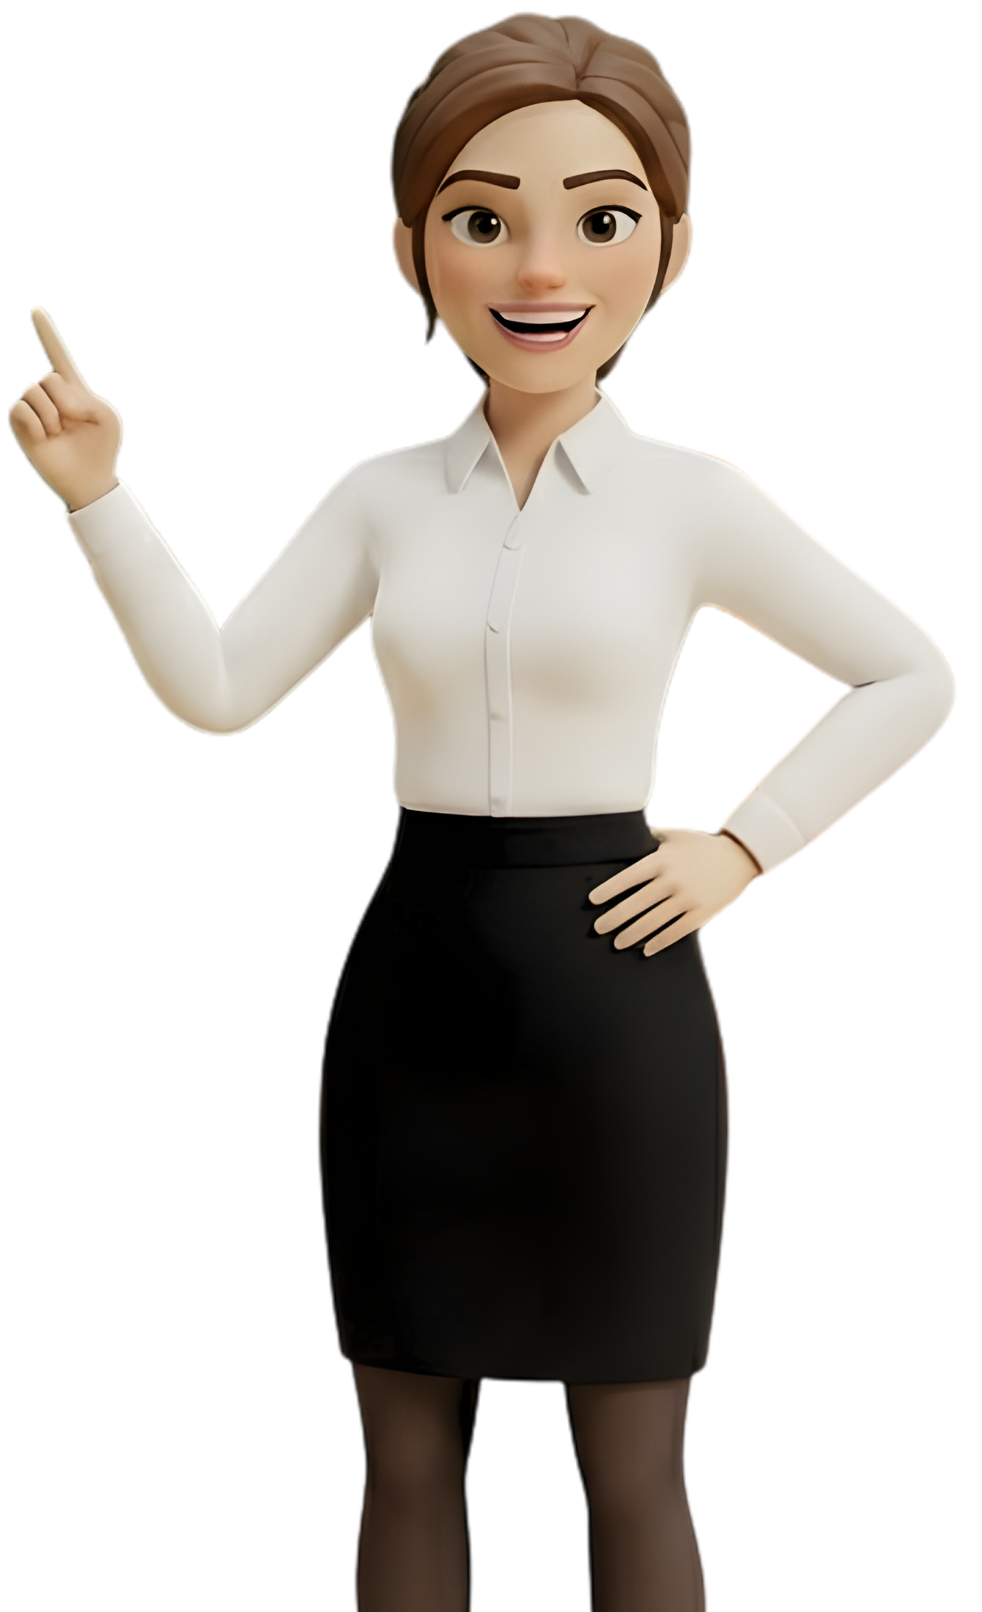
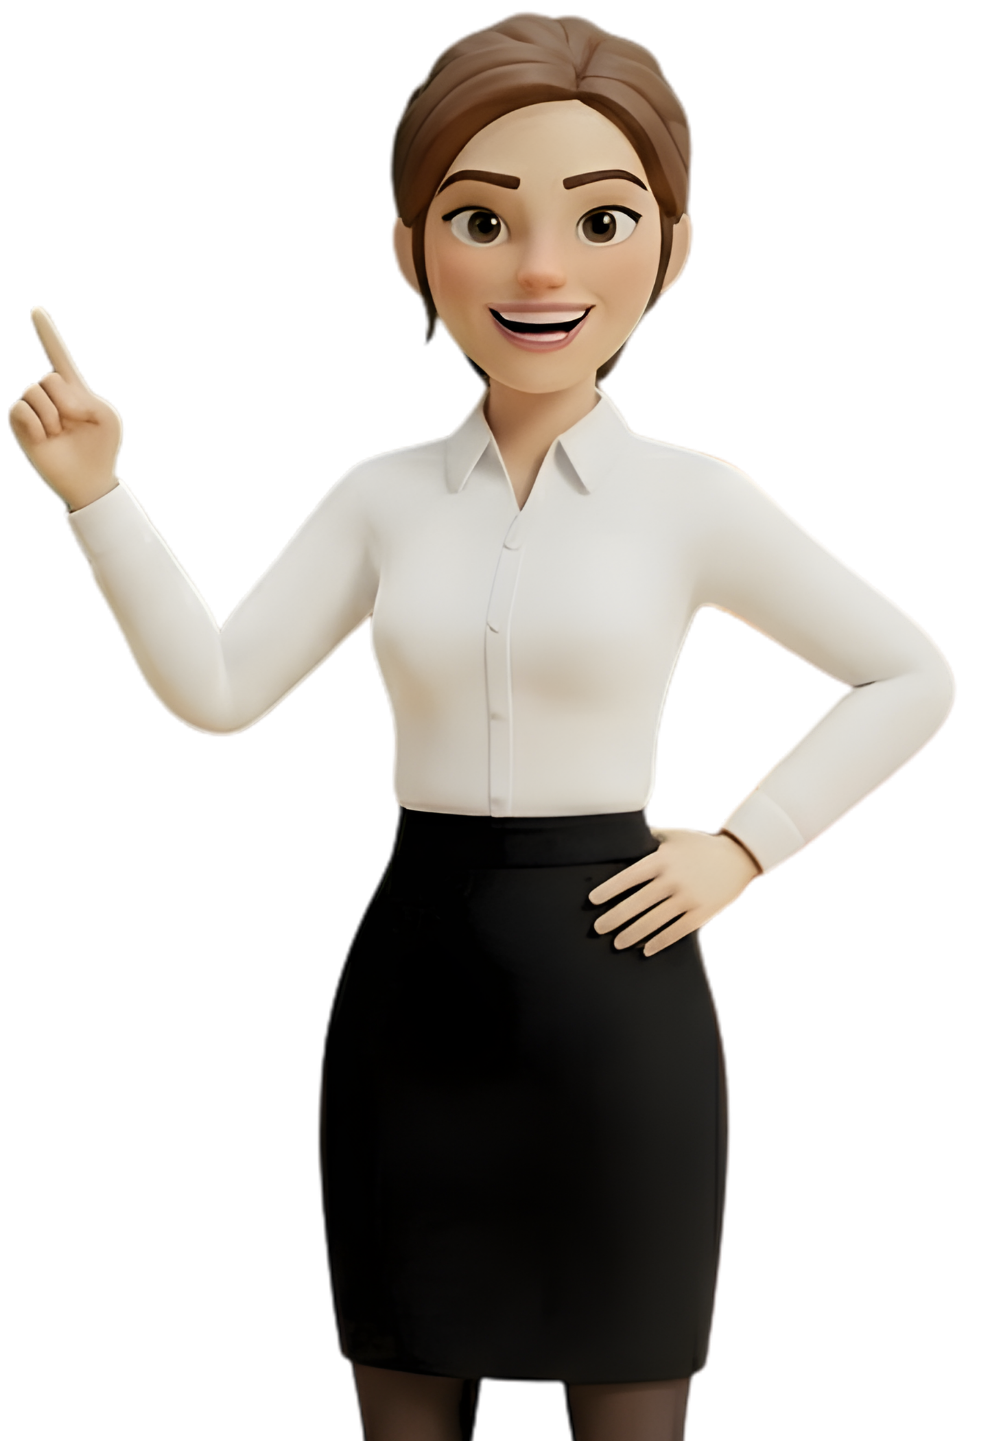
UPDATED AGAIN

Changed region(s): [[0.0, 0.0, 0.9776, 1.0]]

diff --git a/Site/CSS/style.css b/Site/CSS/style.css
@@ -1192,19 +1192,7 @@ section {
   opacity: 1;
 }
 
-/* Arrow Buttons */
-.prev, .next {
-  background: none;
-  border: none;
-  font-size: 50px;
-  color: white;
-  cursor: pointer;
-  transition: 0.3s;
-}
 
-.prev:hover, .next:hover {
-  color: #8e7dff;
-}
 
 .character.active {
   opacity: 1;
@@ -1562,7 +1550,7 @@ body.world-preview-open {
   min-height: 750px;
   padding: clamp(24px, 2.8vw, 36px);
 
-  background: url("../assets/Background/corkboard2.png") no-repeat center;
+  background: url("../assets/Background/corkboard.png") no-repeat center;
   background-size: 100% 100%;
 
   display: grid;
@@ -1576,9 +1564,10 @@ body.world-preview-open {
   display: flex;
   flex-direction: column;
   align-items: flex-start;
-  justify-content: space-between;
+  justify-content: flex-start;
   border-right: 2px dashed rgba(44, 24, 8, 0.35);
   padding-right: clamp(10px, 1.4vw, 18px);
+  gap: clamp(10px, 1.8vw, 18px);
 }
 
 .corkboard-left h2 {
@@ -1601,6 +1590,44 @@ body.world-preview-open {
   z-index: -1;
 }
 
+.corkboard-meta {
+  display: flex;
+  flex-direction: column;
+  gap: 6px;
+  align-items: flex-start;
+  padding: 6px 0 0 2px;
+}
+
+.corkboard-title {
+  width: 100%;
+  display: flex;
+  justify-content: center;
+}
+
+.corkboard-prof {
+  width: 100%;
+  display: flex;
+  justify-content: center;
+  margin-top: auto;
+}
+
+.corkboard-prof img{
+  width: min(300px, 100%);
+  height: auto;
+  display: block;
+  margin-left: clamp(280px, 6vw, 20px);
+  margin-bottom: 15px;
+  transform: scaleX(-1);
+}
+
+.corkboard-title img {
+  width: min(450px, 100%);
+  height: auto;
+  display: block;
+  margin-top: 18px;
+  margin-left: 70px;
+}
+
 .corkboard-right {
   display: grid;
   grid-template-rows: auto minmax(170px, 1fr);
@@ -1620,24 +1647,21 @@ body.world-preview-open {
   height: 44px;
   border: 0;
   border-radius: 999px;
-  background: rgba(47, 24, 8, 0.18);
+  background: rgba(47, 24, 8, 0);
   cursor: pointer;
   display: grid;
   place-items: center;
   transition: transform 180ms ease, background 180ms ease;
 }
 
-.sticky-arrow:hover {
-  background: rgba(47, 24, 8, 0.26);
-  transform: scale(1.06);
-}
 
 .sticky-arrow img {
-  width: 24px;
-  height: 24px;
+  width: 44px;
+  height: 44px;
+  filter: invert(1);
 }
 
-.sticky-next img {
+.sticky-prev img {
   transform: rotate(180deg);
 }
 
@@ -1676,17 +1700,7 @@ body.world-preview-open {
   z-index: 6;
 }
 
-.sticky-note.is-prev {
-  opacity: 0.65;
-  transform: translateX(-140%) translateY(30px) rotate(-12deg) scale(0.82);
-  z-index: 5;
-}
 
-.sticky-note.is-next {
-  opacity: 0.65;
-  transform: translateX(40%) translateY(30px) rotate(12deg) scale(0.82);
-  z-index: 5;
-}
 
 .sticky-note h3 {
   margin: 0;
@@ -1800,8 +1814,15 @@ body.world-preview-open {
     border-right: 0;
     border-bottom: 2px dashed rgba(44, 24, 8, 0.35);
     padding: 0 0 8px;
-    justify-content: space-between;
+    justify-content: flex-start;
+    gap: 12px;
   }
+
+  .corkboard-title img {
+    width: min(360px, 88vw);
+  }
+
+ 
 
   .sticky-window {
     min-height: 250px;
@@ -1898,55 +1919,53 @@ footer a {
 /* make carousel layout: notes on top, arrows below */
 .sticky-carousel {
   width: 100%;
+  position: relative;
   display: grid;
-  grid-template-columns: 1fr auto auto 1fr;
-  grid-template-areas:
-    "notes notes notes notes"
-    ". prev next .";
+  grid-template-columns: 1fr;
   align-items: center;
   justify-items: center;
-  gap: 18px;
   overflow: visible;
 }
 
 /* prevent side notes from being cut off */
 .sticky-window {
-  grid-area: notes;
   width: 100%;
   min-height: 430px;
   position: relative;
   overflow: visible;
 }
 
-/* move arrows under notes */
+/* overlay arrows on top of the active note */
+.sticky-prev,
+.sticky-next {
+  position: absolute;
+  top: clamp(38px, 7vw, 78px);
+  left: 50%;
+  z-index: 40;
+}
+
 .sticky-prev {
-  grid-area: prev;
+  transform: translate(-50%, -50%) translateX(clamp(-200px, -15vw, -140px));
 }
 
 .sticky-next {
-  grid-area: next;
-}
-
-/* make arrows sit close together under the notes */
-.sticky-arrow {
-  margin-top: -20px;
-  z-index: 20;
+  transform: translate(-50%, -50%) translateX(clamp(150px, 16vw, 240px));
 }
 
 .sticky-note.is-prev {
   opacity: 1;
-  transform: translateX(-95%) translateY(250px) rotate(-10deg) scale(0.82);
+  transform: translateX(-88%) translateY(200px) scale(0.92);
 }
 
 .sticky-note.is-next {
   opacity: 1;
-  transform: translateX(6%) translateY(250px) rotate(10deg) scale(0.82);
+  transform: translateX(0%) translateY(200px)  scale(0.92);
 }
 
 /* active note stays centered */
 .sticky-note.is-active {
   opacity: 1;
-  transform: translateX(-50%) translateY(85px) scale(1.15);
+  transform: translateX(-45%) translateY(100px) scale(1.5);
 }
 
 .sticky-content {
@@ -2204,20 +2223,20 @@ footer a {
 }
 
 .primary-btn {
-  background: #310948;
+  background: #be9502;
   color: white;
 
   box-shadow:
-    0 10px 24px rgba(59, 28, 98, 0.35);
+    0 10px 24px rgba(57, 56, 59, 0.35);
 }
 
 .primary-btn:hover {
   transform: translateY(-5px) scale(1.02);
 
-  background: #4d0b82;
+  background: #f7c100;
 
   box-shadow:
-    0 16px 28px rgba(79, 38, 90, 0.45);
+    0 16px 28px rgba(69, 66, 70, 0.45);
 }
 
 .team-back-button {

diff --git a/Site/index.html b/Site/index.html
@@ -91,20 +91,27 @@
 
   <div class="content announcement-content">
     <div class="corkboard-panel">
-      <div class="corkboard-left">
-      </div>
+        <div class="corkboard-left">
+          <div class="corkboard-title">
+          <img src="assets/Background/title.png" alt="title" class="title" aria-hidden="true">
+</div>
+          <div class="corkboard-prof">
+            <img src="assets/Characters/prof.png" alt="Prof" class="prof" aria-hidden="true">
+            
+          </div>
+        </div>
 
       <div class="corkboard-right">
         <div class="sticky-carousel" aria-label="Announcement sticky notes">
           <button class="sticky-arrow sticky-prev" type="button" aria-label="Previous announcement">
-            <img src="assets/Icons/back-button.png" alt="" aria-hidden="true">
+            <img src="assets/Icons/arrow.png" alt="" aria-hidden="true">
           </button>
 
 
           <div id="stickyNotesContainer" class="sticky-window"></div>
 
           <button class="sticky-arrow sticky-next" type="button" aria-label="Next announcement">
-            <img src="assets/Icons/back-button.png" alt="" aria-hidden="true">
+            <img src="assets/Icons/arrow.png" alt="" aria-hidden="true">
           </button>
         </div>
 

diff --git a/Site/HTML/team.html b/Site/HTML/team.html
@@ -18,7 +18,7 @@
       <figure class="team-card">
         <img src="../Profiling/UserPage/Dashboard/Profile/Images/nash.png" alt="CABIA, Nash Daniel S." />
         <figcaption class="team-overlay">
-          <h3>CABIA, Nash Daniel S.</h3>
+          <h3>CABIA</h3> Nash Daniel S.</h3>
           <p>Web Developer</p>
         </figcaption>
       </figure>
@@ -26,7 +26,7 @@
       <figure class="team-card">
         <img src="../Profiling/UserPage/Images/zel.png" alt="DE GUZMAN, Grazelle P." />
         <figcaption class="team-overlay">
-          <h3>DE GUZMAN, Grazelle P.</h3>
+          <h3>DE GUZMAN</h3> Grazelle P.</h3>
           <p>Documenter / Technical Writer</p>
         </figcaption>
       </figure>
@@ -34,7 +34,7 @@
       <figure class="team-card">
         <img src="../Profiling/UserPage/Images/maru.png" alt="ESTABILLO, Yuan Maru A." />
         <figcaption class="team-overlay">
-          <h3>ESTABILLO, Yuan Maru A.</h3>
+          <h3>ESTABILLO</h3> Yuan Maru A.</h3>
           <p>Project Manager</p>
         </figcaption>
       </figure>
@@ -42,7 +42,7 @@
       <figure class="team-card">
         <img src="../Profiling/UserPage/Images/jehu.png" alt="GIPAYA, Jehu S." />
         <figcaption class="team-overlay">
-          <h3>GIPAYA, Jehu S.</h3>
+          <h3>GIPAYA</h3 > Jehu S.</h3>
           <p>System Designer</p>
         </figcaption>
       </figure>
@@ -50,7 +50,7 @@
       <figure class="team-card">
         <img src="../Profiling/UserPage/Images/q.png" alt="SALVADOR, Qjuin Dominic" />
         <figcaption class="team-overlay">
-          <h3>SALVADOR, Qjuin Dominic</h3>
+          <h3>SALVADOR</h3> Qjuin Dominic</h3>
           <p>System Analyst / Game Developer</p>
         </figcaption>
       </figure>

diff --git a/Site/JS/script.js b/Site/JS/script.js
@@ -57,6 +57,7 @@
   }
 
   const SWIPE_THRESHOLD_PX = 90;
+  const TAP_MOVE_THRESHOLD_PX = 10;
   let activeCard = null;
   let startX = 0;
   let startY = 0;
@@ -65,6 +66,9 @@
   let isDragging = false;
 
   function onPointerDown(e) {
+    if (e.button != null && e.button !== 0) return;
+    if (e.isPrimary === false) return;
+
     const topCard = deck.querySelector(".swipe-card");
     if (!topCard) return;
     if (e.target && !topCard.contains(e.target)) return;
@@ -121,6 +125,12 @@
 
   function onPointerUp() {
     if (!isDragging || !activeCard) return;
+
+    // Treat a simple click/tap (no meaningful movement) as "next card".
+    if (Math.abs(currentX) < TAP_MOVE_THRESHOLD_PX && Math.abs(currentY) < TAP_MOVE_THRESHOLD_PX) {
+      finishSwipe();
+      return;
+    }
 
     if (Math.abs(currentX) >= SWIPE_THRESHOLD_PX) {
       const direction = currentX < 0 ? -1 : 1;

diff --git a/Site/CSS/team.css b/Site/CSS/team.css
@@ -111,7 +111,7 @@
 
 /* NAME */
 
-.team-overlay h3 {
+.team-overlay br {
   color: white;
 
   margin: 0 0 8px;